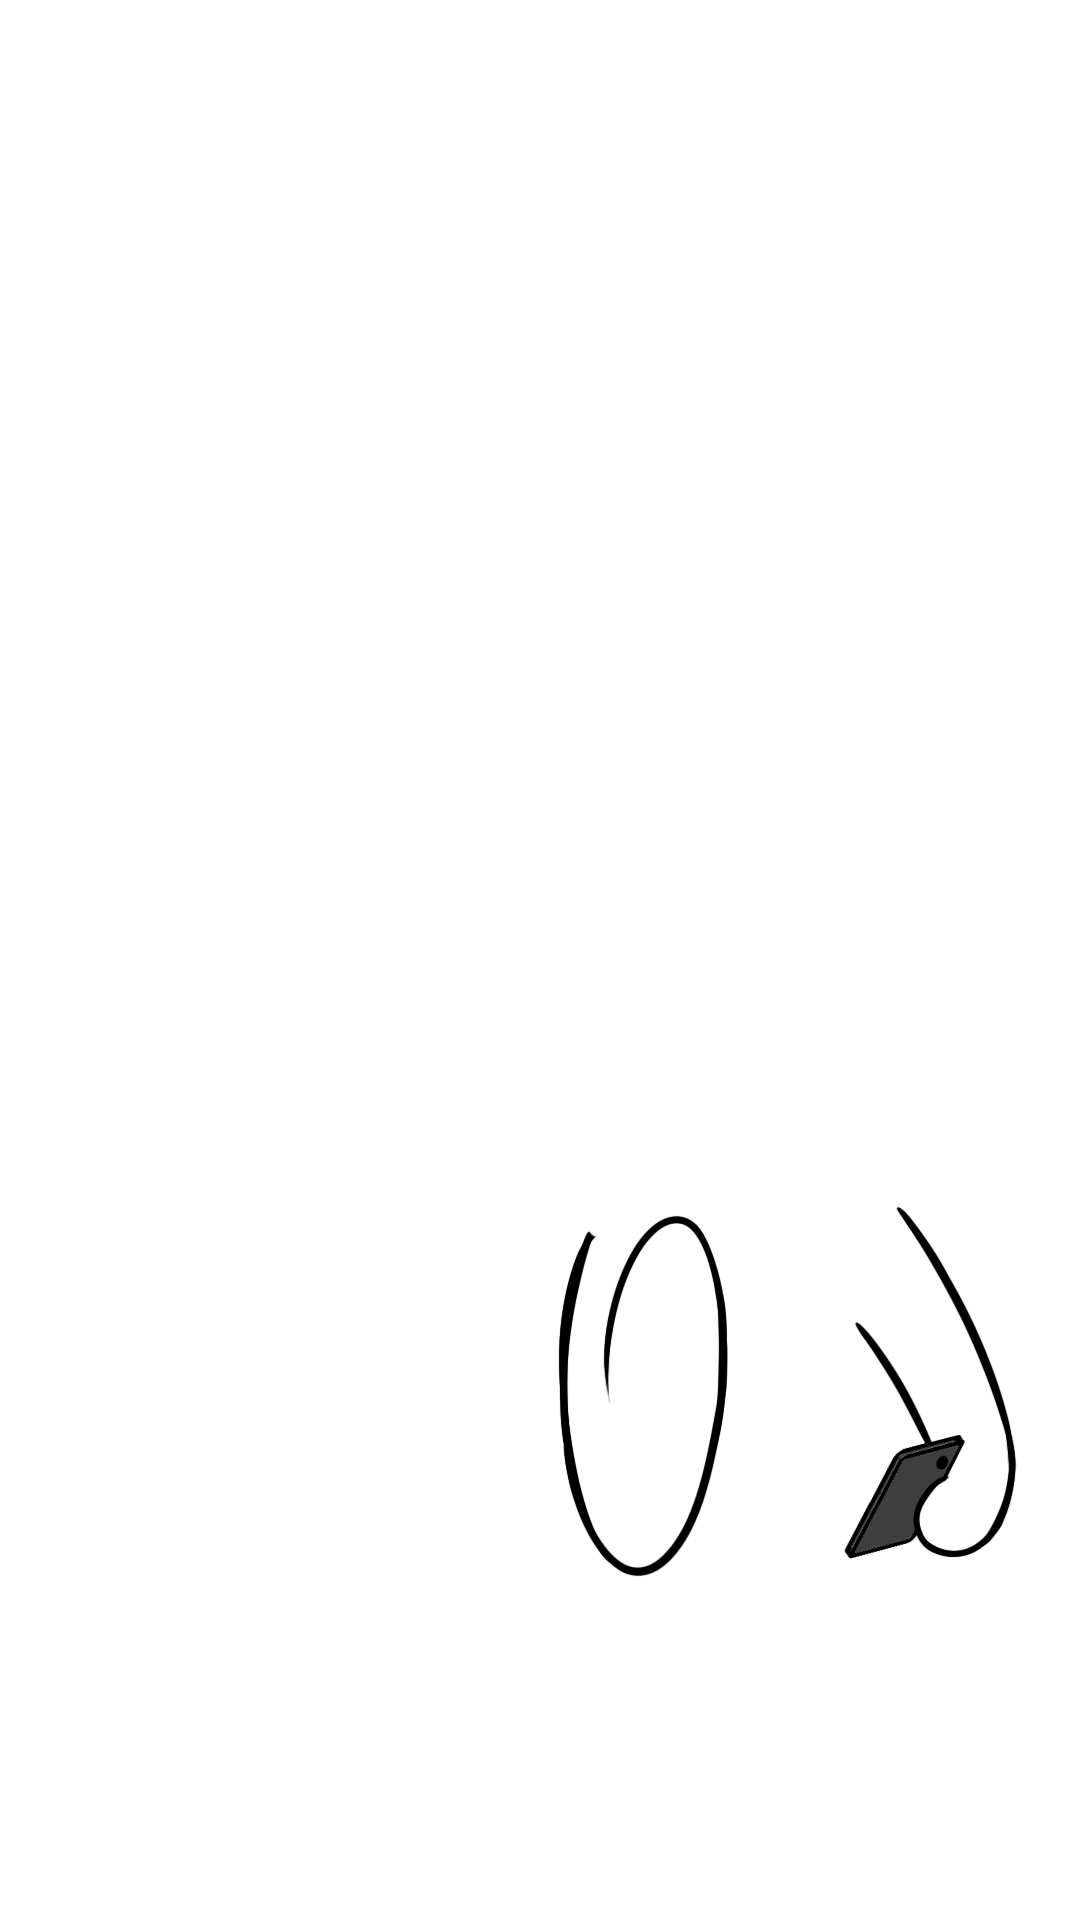
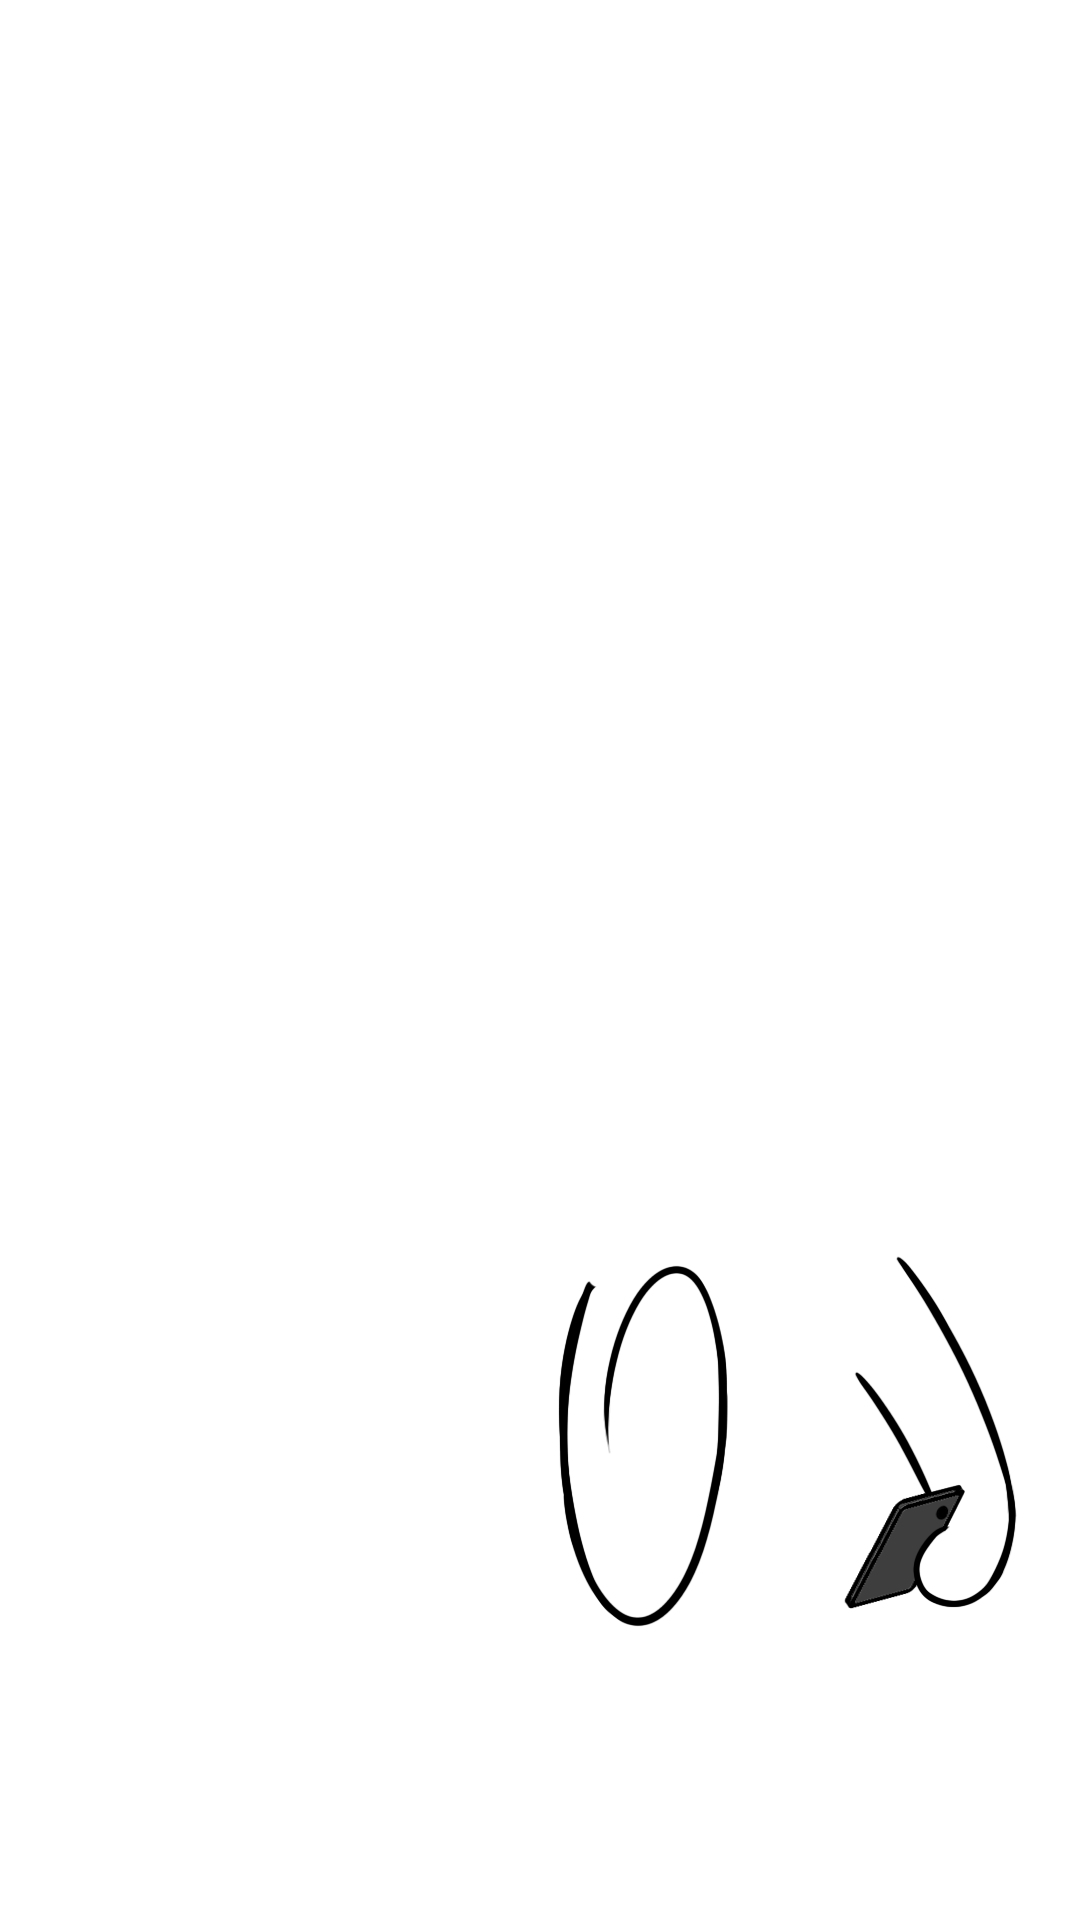
Finish functionality of the GameCharacter class

Changed region(s): [[0.7639, 0.625, 0.9472, 0.8438], [0.5194, 0.625, 0.6722, 0.8438]]

diff --git a/core/src/fi/tuni/tamk/tiko/depressionaut/GameCharacter.java b/core/src/fi/tuni/tamk/tiko/depressionaut/GameCharacter.java
@@ -1,28 +1,8 @@
 package fi.tuni.tamk.tiko.depressionaut;
 
-/*
-    head offset values:
-    - tier 1: down 65px
-    - tier 2: down 15px
- */
-
-/* TODO: implement the following:
-public void blink() {
-        eyestest++;
-        if(eyestest > 400) {
-        eyestest = 0;
-        }
-        if(eyestest > 390) {
-        batch.draw(eyes.get(1), x, y);
-        } else {
-        batch.draw(eyes.get(0), x, y);
-        }
-
-        }
-*/
-
 import com.badlogic.gdx.graphics.Texture;
 import com.badlogic.gdx.graphics.g2d.SpriteBatch;
+import com.badlogic.gdx.math.Vector2;
 
 import java.util.ArrayList;
 import java.util.Arrays;
@@ -30,44 +10,37 @@ import java.util.Arrays;
 public class GameCharacter {
     public ArrayList<ArrayList<Texture>> lists = new ArrayList<ArrayList<Texture>>();
 
-    ArrayList<Texture> bodies = new ArrayList<Texture>(
+    private ArrayList<Texture> bodies = new ArrayList<Texture>(
             Arrays.asList(
                     new Texture("character/body/tier1.png"),
                     new Texture("character/body/tier2.png")
             )
     );
 
-    ArrayList<Texture> heads = new ArrayList<Texture>(
-            Arrays.asList(
-                    new Texture("character/head/tier1.png"),
-                    new Texture("character/head/tier2.png")
-            )
-    );
+    public Texture head = new Texture("character/head.png");
 
-    ArrayList<Texture> smiles = new ArrayList<Texture>(
+    private ArrayList<Texture> smiles = new ArrayList<Texture>(
             Arrays.asList(
                     new Texture("character/smile/tier1.png"),
                     new Texture("character/smile/tier2.png")
             )
     );
 
-    ArrayList<Texture> hands = new ArrayList<Texture>(
+    private ArrayList<Texture> hands = new ArrayList<Texture>(
             Arrays.asList(
                     new Texture("character/hands/empty.png"),
                     new Texture("character/hands/phone.png")
             )
     );
 
-    ArrayList<Texture> eyes = new ArrayList<Texture>(
+    private ArrayList<Texture> eyes = new ArrayList<Texture>(
             Arrays.asList(
                     new Texture("character/eyes/open.png"),
                     new Texture("character/eyes/closed.png")
             )
     );
 
-
-    public int tier = 0;
-    public int handTier = 0;
+    private int blinkTimer = 0;
 
     private enum heldItem{
         EMPTY,
@@ -76,46 +49,49 @@ public class GameCharacter {
 
     private enum textureIndex{
         BODY,
-        HEAD,
         SMILE,
         HANDS
     }
 
     public GameCharacter() {
         lists.add(bodies);
-        lists.add(heads);
         lists.add(smiles);
         lists.add(hands);
     }
 
-    public void draw(SpriteBatch batch) {
+    public void draw(SpriteBatch batch, int tier) {
+        // draw head
+        batch.draw(head,
+                getHeadPosition(tier).x,
+                getHeadPosition(tier).y);
+
         // draw body
-        for (int lIndex = 0; lIndex <= 2; lIndex++) {
-            batch.draw(lists.get(lIndex).get(getTier()),
+        for (int lIndex = 0; lIndex <= 1; lIndex++) {
+            batch.draw(lists.get(lIndex).get(tier-1),
                     0,
                     0);
         }
 
-        /*
         // draw hands
-        batch.draw(lists.get(getTextureIndex(textureIndex.HANDS)).get(getItemIndex(heldItem.EMPTY)),
+        batch.draw(lists.get(getTextureIndex(textureIndex.HANDS)).get(getItemIndex(heldItem.PHONE)),
                 0,
-                getTierOffset(getTier()));
+                getTierOffset(tier));
 
-         */
-
-        // draw face
-        batch.draw(eyes.get(0),
-                0,
-                getTierOffset(getTier()));
+        // draw eyes
+        blink(batch, tier);
     }
 
-    public void setTier(int tier) {
-        this.tier = tier;
-    }
+    public void blink(SpriteBatch batch, int tier) {
+        blinkTimer++;
+        if(blinkTimer > 400) {
+            blinkTimer = 0;
+        }
+        if(blinkTimer > 390) {
+            batch.draw(eyes.get(1), 0, getTierOffset(tier));
+        } else {
+            batch.draw(eyes.get(0), 0, getTierOffset(tier));
+        }
 
-    public int getTier() {
-        return tier - 1;
     }
 
     public int getItemIndex(heldItem name) {
@@ -129,19 +105,23 @@ public class GameCharacter {
     public int getTextureIndex(textureIndex name) {
         switch (name) {
             case BODY: return 0;
-            case HEAD: return 1;
-            case SMILE: return 2;
-            case HANDS: return 3;
+            //case HEAD: return 1;
+            case SMILE: return 1;
+            case HANDS: return 2;
         }
         return -1;
     }
 
     public int getTierOffset(int tier) {
-        switch (tier + 1) {
-            case 1: return -65;
-            case 2: return 0;
+        return (int) (getHeadPosition(tier).y - getHeadPosition(1).y);
+    }
+
+    public Vector2 getHeadPosition(int tier) {
+        switch (tier) {
+            case 1: return new Vector2(514,1920 - 1336);
+            case 2: return new Vector2(514,1920 - 1285);
         }
-        return 0;
+        return new Vector2();
     }
 
 }

diff --git a/core/src/fi/tuni/tamk/tiko/depressionaut/Screens/GameScreen.java b/core/src/fi/tuni/tamk/tiko/depressionaut/Screens/GameScreen.java
@@ -5,6 +5,7 @@ import com.badlogic.gdx.Screen;
 import com.badlogic.gdx.graphics.OrthographicCamera;
 import com.badlogic.gdx.graphics.Texture;
 import com.badlogic.gdx.graphics.g2d.SpriteBatch;
+import com.badlogic.gdx.math.Vector2;
 import com.badlogic.gdx.utils.ScreenUtils;
 
 import java.util.ArrayList;
@@ -32,10 +33,9 @@ public class GameScreen implements Screen {
     public int bedTier = 0;
     public int chairTier = 0;
     public int deskTier = 0;
-    public int characterTier = 0;
+    // Character's lowest tier is 1, not 0.
+    public int characterTier = 1;
     public int smileTier = 0;
-
-    public int eyestest = 0;
 
     /*
     Lists for all tiers of textures
@@ -71,9 +71,6 @@ public class GameScreen implements Screen {
         this.game = game;
         batch = game.gameBatch;
         camera = game.camera;
-
-        // For testing purposes. Works with values 1 and 2.
-        character.setTier(1);
     }
 
     /*
@@ -121,7 +118,7 @@ public class GameScreen implements Screen {
         batch.draw(desks.get(wallTier), x, y);
 
         // Character layer:
-        character.draw(batch);
+        character.draw(batch, characterTier);
 
         // Top layer:
         particle.renderParticles(batch, delta);
@@ -131,8 +128,12 @@ public class GameScreen implements Screen {
     }
 
     public void createParticle() {
+        Vector2 headPos = new Vector2(character.getHeadPosition(characterTier));
+        headPos.x += character.head.getWidth() / 2f;
+        headPos.y += character.head.getHeight() / 2f;
+
         if (Gdx.input.justTouched()) {
-            particle.createParticle();
+            particle.createParticle(headPos);
             game.score.click();
         }
     }
